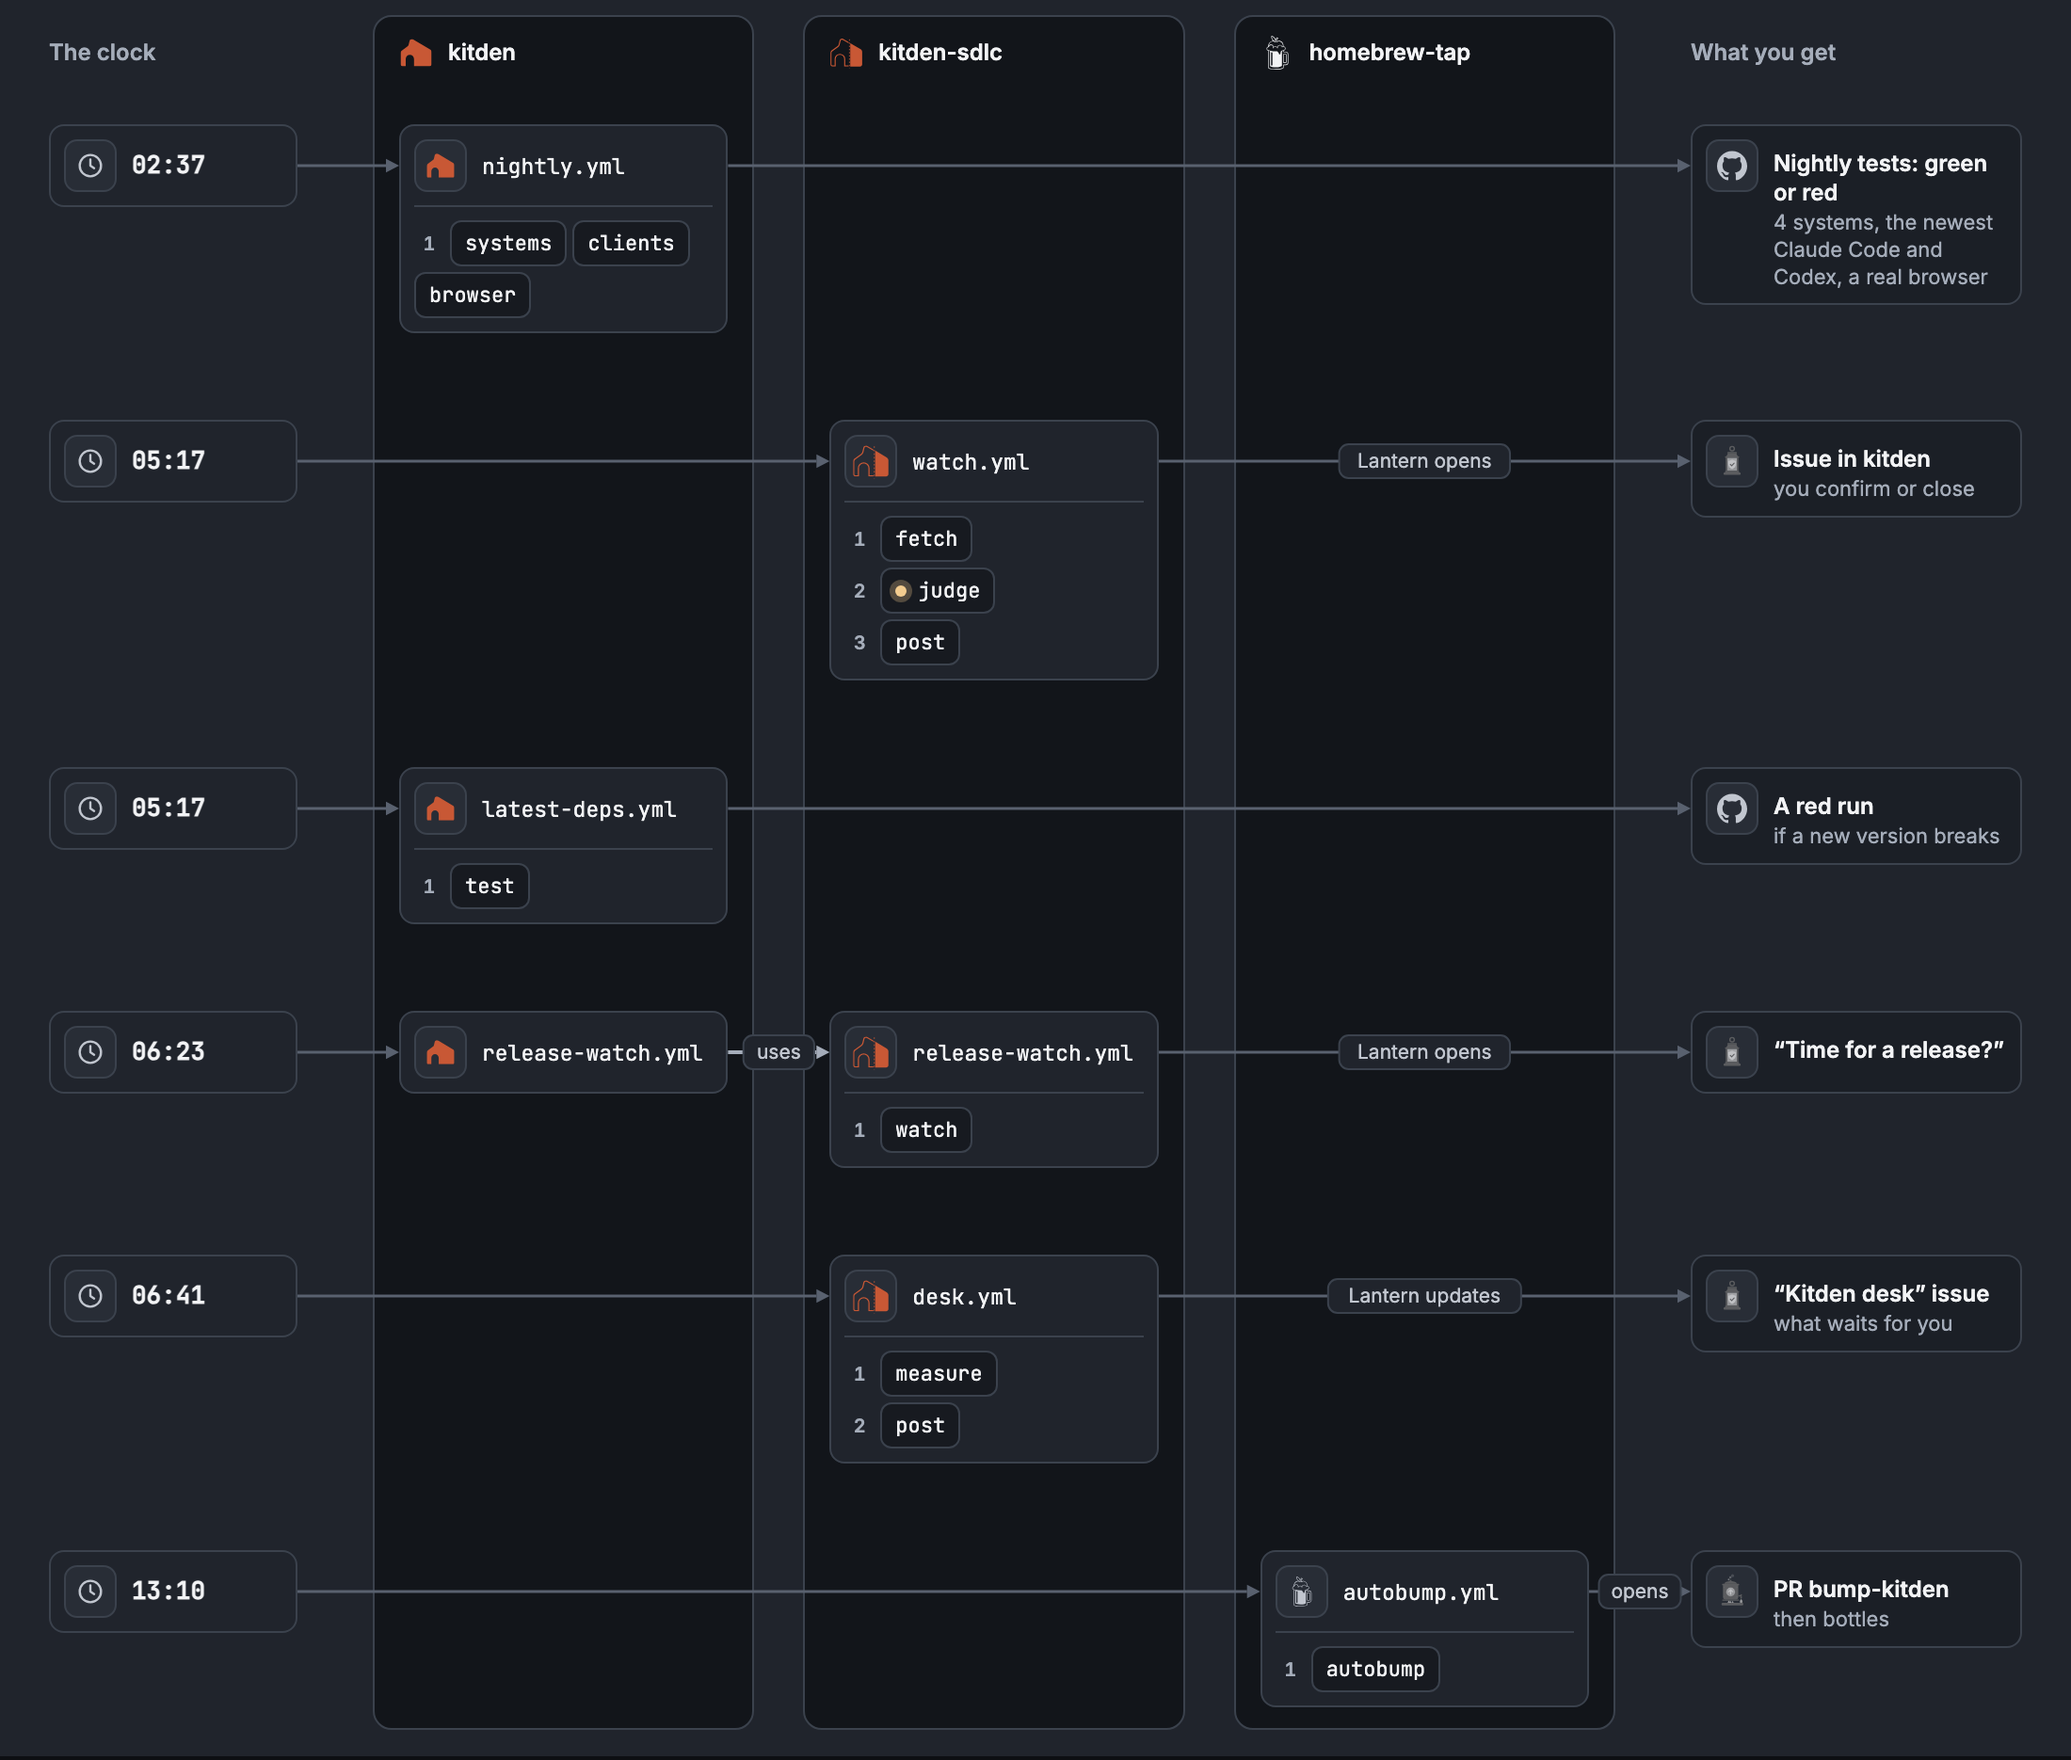
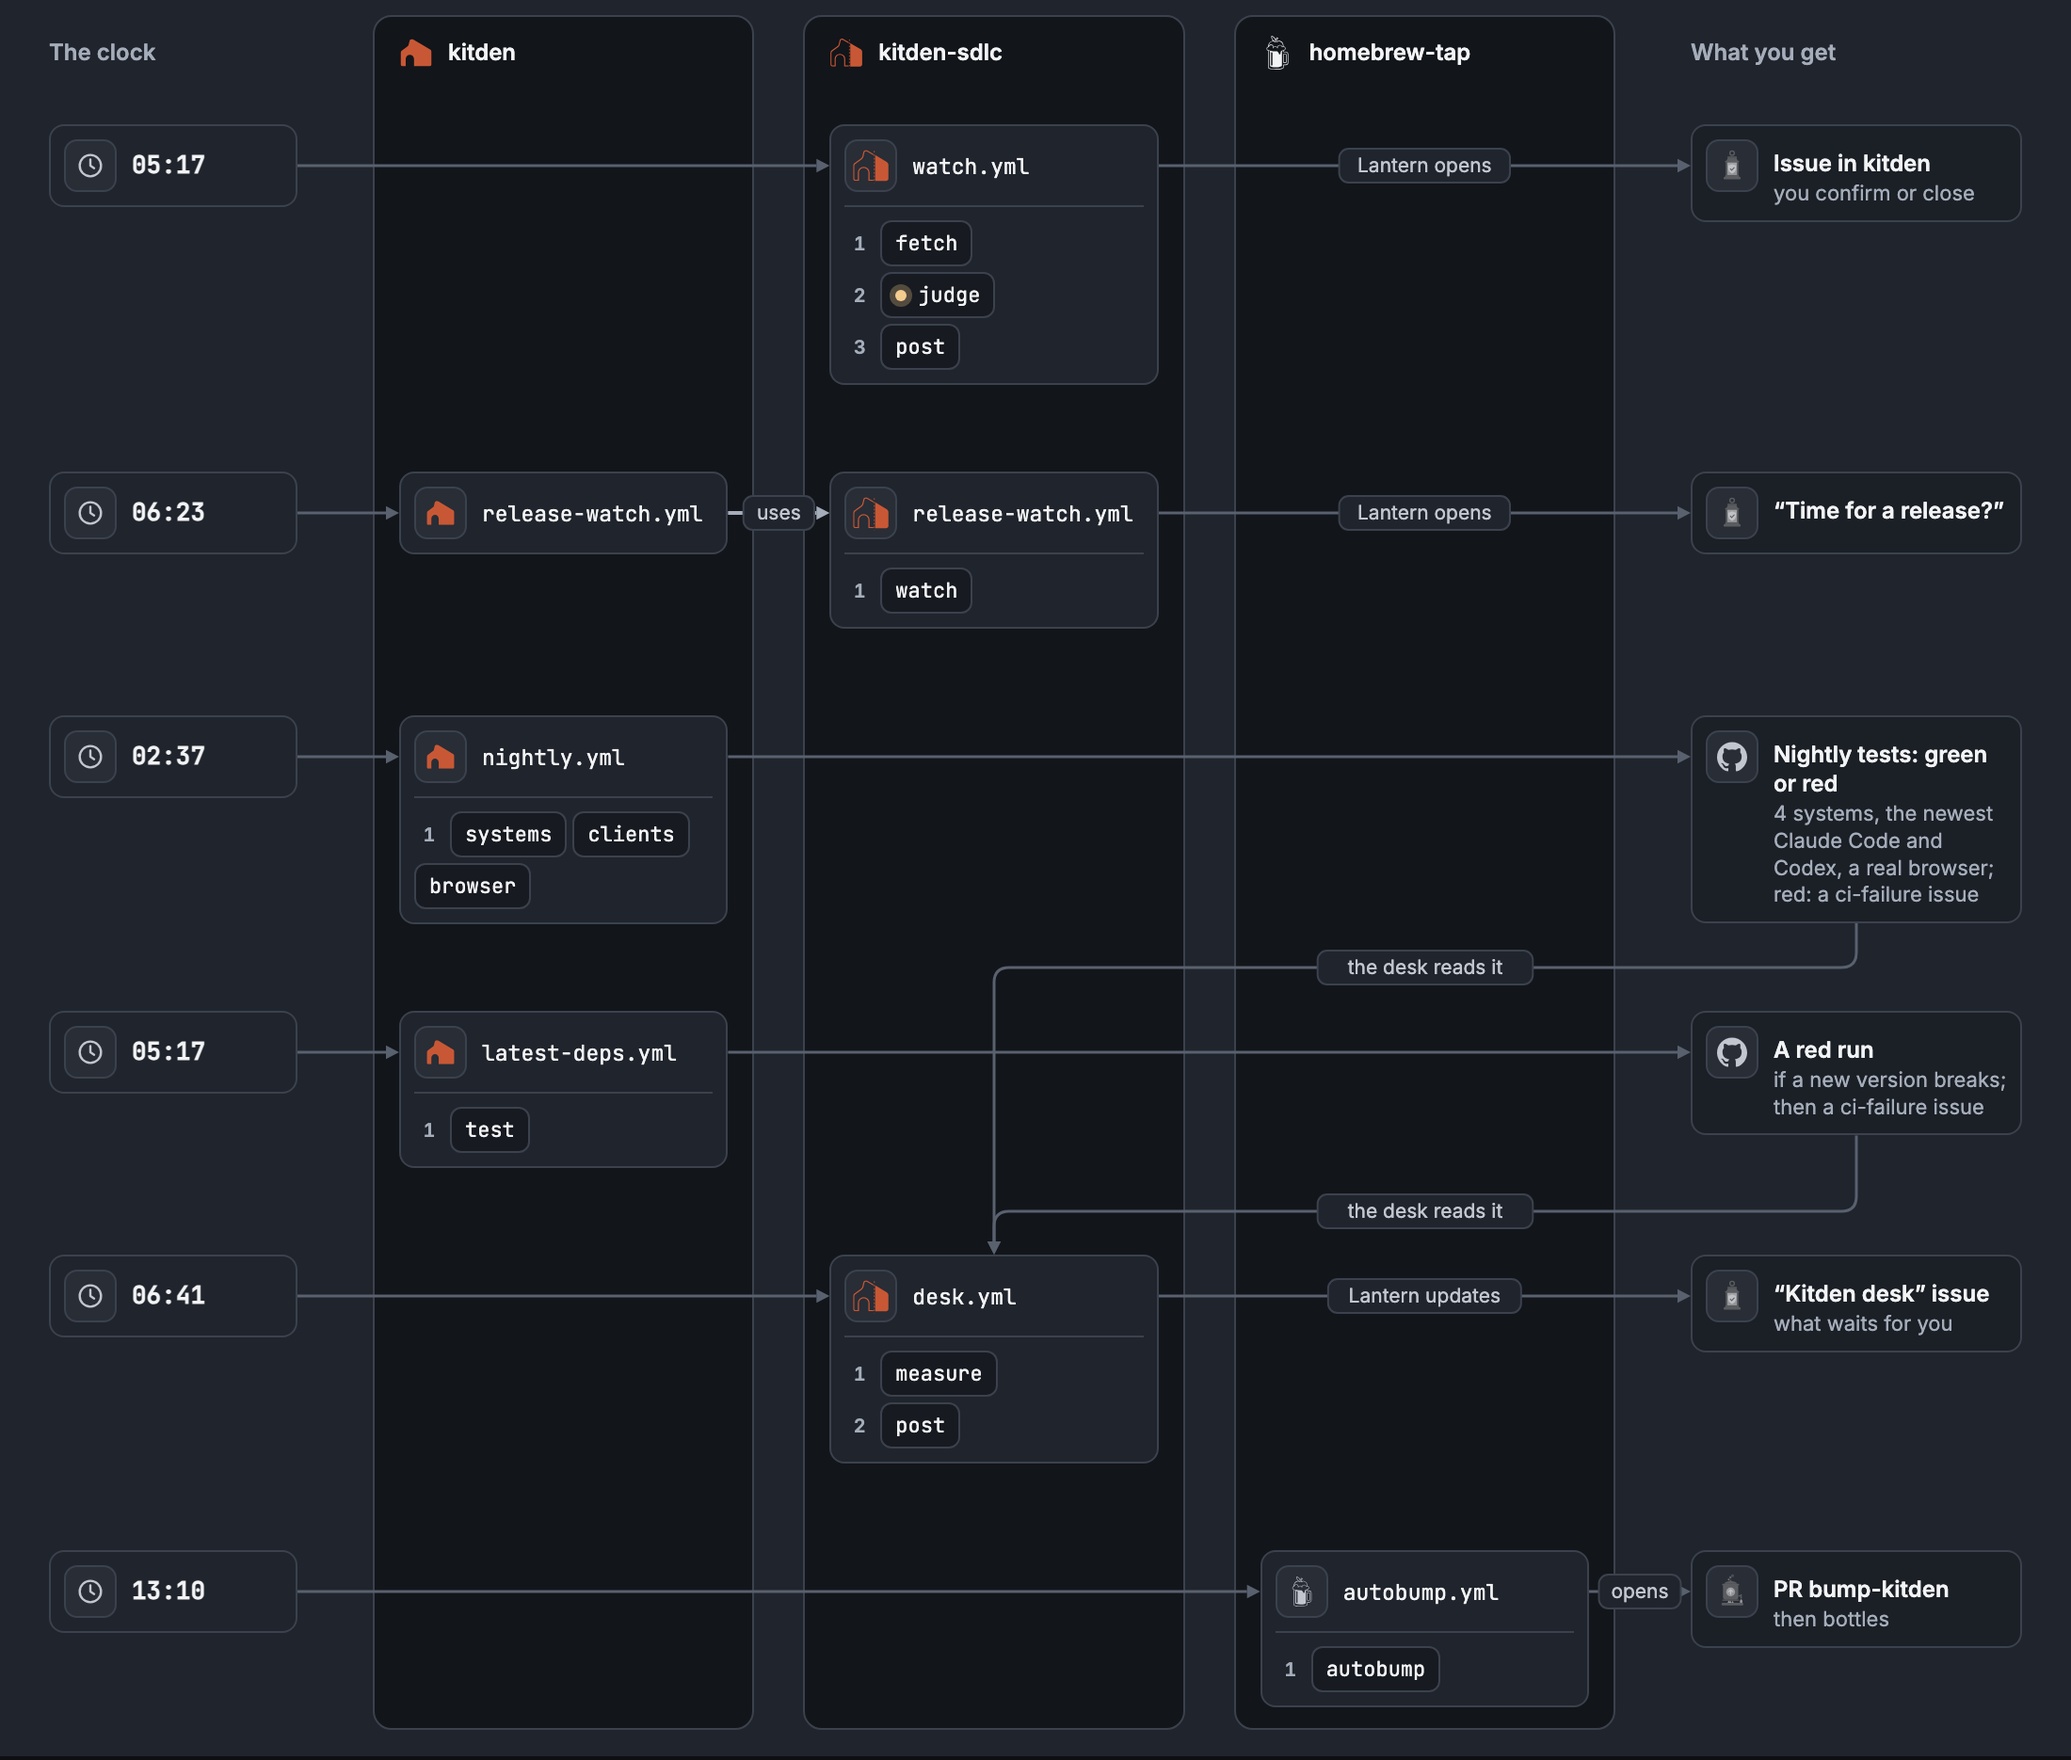
Show on the map that the desk reads the nightly runs

diff --git a/docs/map/index.html b/docs/map/index.html
@@ -440,11 +440,11 @@ const WF = [
   jobs:[{n:'watch', tags:['calls kitden-sdlc'], when:'`AGENTS_ENABLED` on', steps:['Call `release-watch.yml`']}]},
  {id:'k-latest-deps', r:'k', file:'latest-deps.yml', kind:'own',
   trigger:'Every day, 05:17 UTC',
-  stages:[['test']],
+  readBy:['s-desk'], stages:[['test']],
   jobs:[{n:'test', tags:['macOS'], when:'always', steps:['`uv sync --upgrade`','`pytest`']}]},
  {id:'k-nightly', r:'k', file:'nightly.yml', kind:'own',
   trigger:'Every night, 02:37 UTC',
-  stages:[['systems','clients','browser']],
+  readBy:['s-desk'], stages:[['systems','clients','browser']],
   jobs:[
    {n:'systems', tags:['macOS ARM + Intel','Ubuntu x64 + ARM','Python 3.13 + 3.14','no secret'], when:'always: 8 runs, one per system and Python',
     steps:['Install, on the Python of this run','Tests: `pytest`','The real keyring (Ubuntu)','The real Keychain (macOS)','Page tests in Node','Start-up within its time budgets: twice the budgets on the Intel Mac','Tests set aside: never red']},
@@ -525,10 +525,10 @@ const WF = [
   ]},
  {id:'s-desk', r:'s', file:'desk.yml', kind:'own',
   trigger:'Every day, 06:41 UTC',
-  stages:[['measure'],['post']],
+  reads:['k-nightly','k-latest-deps'], stages:[['measure'],['post']],
   jobs:[
-   {n:'measure', tags:['no model'], when:'always', steps:['Gather the facts','Commit the numbers']},
-   {n:'post', tags:['no model','Lantern'], when:'`AGENTS_ENABLED` on', steps:['Update the “Kitden desk” issue']}
+   {n:'measure', tags:['no model'], when:'always', steps:['Gather the facts, the nightly runs and the workflow map among them','Commit the numbers']},
+   {n:'post', tags:['no model','Lantern'], when:'`AGENTS_ENABLED` on', steps:['Update the “Kitden desk” issue','A `ci-failure` issue for each red nightly part, closed when it is green']}
   ]},
  {id:'s-checks', r:'s', file:'checks.yml', kind:'own',
   trigger:'Any push or pull request',
@@ -646,15 +646,16 @@ const STORIES = {
       ['bump','t-tests','starts','z'],['t-tests','t-auto-pull','tests pass','z'],['t-auto-pull','t-publish','starts','z'],['t-publish','brew','','h']]},
   day:{note:'Times are UTC. Nothing here needs you until an issue, a pull request or a red run shows up.',
     rows:[
-      [{id:'c0', kind:'clock', t:'02:37'}, {wf:'k-nightly'}, {id:'d0', kind:'thing', ic:'github', t:'Nightly tests: green or red', sub:'4 systems, the newest Claude Code and Codex, a real browser'}],
       [{id:'c1', kind:'clock', t:'05:17'}, {wf:'s-watch', stages:[['fetch'],['judge'],['post']]}, {id:'d1', kind:'thing', ic:'lantern', t:'Issue in kitden', sub:'you confirm or close'}],
-      [{id:'c2', kind:'clock', t:'05:17'}, {wf:'k-latest-deps'}, {id:'d2', kind:'thing', ic:'github', t:'A red run', sub:'if a new version breaks'}],
       [{id:'c3', kind:'clock', t:'06:23'}, {wf:'k-release-watch'}, {wf:'s-release-watch'}, {id:'d3', kind:'thing', ic:'lantern', t:'“Time for a release?”', go:'rel'}],
+      [{id:'c0', kind:'clock', t:'02:37'}, {wf:'k-nightly'}, {id:'d0', kind:'thing', ic:'github', t:'Nightly tests: green or red', sub:'4 systems, the newest Claude Code and Codex, a real browser; red: a ci-failure issue'}],
+      [{id:'c2', kind:'clock', t:'05:17'}, {wf:'k-latest-deps'}, {id:'d2', kind:'thing', ic:'github', t:'A red run', sub:'if a new version breaks; then a ci-failure issue'}],
       [{id:'c4', kind:'clock', t:'06:41'}, {wf:'s-desk'}, {id:'d4', kind:'thing', ic:'lantern', t:'“Kitden desk” issue', sub:'what waits for you'}],
       [{id:'c5', kind:'clock', t:'13:10'}, {wf:'t-autobump'}, {id:'d5', kind:'thing', ic:'kettle', t:'PR bump-kitden', sub:'then bottles', go:'rel'}]
     ],
     edges:[['c0','k-nightly','','h'],['k-nightly','d0','','h'],['c1','s-watch','','h'],['s-watch','d1','Lantern opens','h'],['c2','k-latest-deps','','h'],['k-latest-deps','d2','','h'],
       ['c3','k-release-watch','','h'],['k-release-watch','s-release-watch','uses','h'],['s-release-watch','d3','Lantern opens','h'],
+      ['d0','s-desk','the desk reads it','z'],['d2','s-desk','the desk reads it','z'],
       ['c4','s-desk','','h'],['s-desk','d4','Lantern updates','h'],['c5','t-autobump','','h'],['t-autobump','d5','opens','h']]}
 };
 const flow = $('flow');

diff --git a/tests/test_map_text.py b/tests/test_map_text.py
@@ -168,14 +168,14 @@ def test_what_keeps_its_second_paragraph_and_why_stops_at_a_tool_directive():
         "a zizmor, actionlint.")
 
 
-# Task 16: the nightly run on the map. The desk does not read the nightly runs yet (S1 is not
-# built), so the map shows no `reads` link today; the tests below say so.
+# Task 16, finished in task 17: the nightly run on the map, and the desk that reads it.
 
-def test_the_nightly_run_is_on_the_map_with_its_jobs_and_no_link_yet():
+def test_the_nightly_run_is_on_the_map_with_its_jobs_and_links():
     assert map_ids(HTML)["k-nightly"] == ("k", "nightly.yml")
     assert map_jobs(HTML)["k-nightly"] == ["systems", "clients", "browser"]
     links = map_links(HTML)
-    assert links["k-nightly"] == {} and "reads" not in links["s-desk"]
+    assert links["s-desk"]["reads"] == ["k-nightly", "k-latest-deps"]
+    assert links["k-nightly"]["readBy"] == links["k-latest-deps"]["readBy"] == ["s-desk"]
     assert links["s-review"] == {"calledBy": ["k-agents-review"]}
     assert "All 22 workflows" in HTML
 
@@ -192,9 +192,7 @@ def test_every_link_names_a_workflow_on_the_map_and_has_its_other_end():
 
 
 def test_a_reads_link_is_read_and_the_page_shows_it():
-    page = HTML.replace("{id:'s-desk', r:'s', file:'desk.yml', kind:'own',",
-                        "{id:'s-desk', r:'s', file:'desk.yml', kind:'own', reads:['k-nightly'],")
-    assert map_links(page)["s-desk"] == {"reads": ["k-nightly"]}
+    assert map_links(HTML)["s-desk"] == {"reads": ["k-nightly", "k-latest-deps"]}
     for kind, label in (("reads", "Reads"), ("readBy", "Read by")):
         shown = (f"(w.{kind} ? '<div class=\"fact\"><span class=\"cap\">{label}</span>"
                  f"<span>' + w.{kind}.map(ref)")
@@ -207,13 +205,23 @@ def test_a_link_to_a_workflow_opens_it_because_the_start_keeps_the_hash():
     assert "setHash('')" not in HTML
 
 
-def test_the_every_day_story_draws_the_nightly_run():
+def test_the_every_day_story_draws_the_nightly_run_and_who_reads_it():
     day = HTML.split("day:{")[1].split("\n};")[0]
     assert "{id:'c0', kind:'clock', t:'02:37'}, {wf:'k-nightly'}" in day
     assert "t:'Nightly tests: green or red'" in day and "a real browser" in day
-    assert "emails" not in day
+    assert "red: a ci-failure issue" in day and "emails" not in day
     assert "['c0','k-nightly','','h'],['k-nightly','d0','','h']" in day
-    assert "the desk reads it" not in day
+    assert day.count("'s-desk','the desk reads it'") == 2
+    assert "['d0','s-desk','the desk reads it','z']" in day
+    assert "['d2','s-desk','the desk reads it','z']" in day
+
+
+def test_the_nightly_and_latest_deps_rows_sit_right_above_the_desk():
+    """So that the edges into the desk run down into it (shape z) and cross no card."""
+    rows = HTML.split("day:{")[1].split("rows:[")[1].split("\n    ],")[0].splitlines()
+    firsts = [re.search(r"\{wf:'([\w-]+)'", row).group(1) for row in rows if "wf:" in row]
+    at = firsts.index("s-desk")
+    assert firsts[at - 2:at + 1] == ["k-nightly", "k-latest-deps", "s-desk"]
 
 
 def test_every_step_in_the_workflows_view_shows_its_number_never_an_icon():

diff --git a/README.md b/README.md
@@ -47,7 +47,7 @@ next thing starts; a dot on a job means a model runs in it.
 
 <picture>
   <source media="(prefers-color-scheme: dark)" srcset="docs/images/map-every-day-dark.png">
-  <img src="docs/images/map-every-day-light.png" width="820" alt="By the clock, in UTC. 02:37: nightly.yml in Kitden runs the tests on four systems and two Pythons, against the newest Claude Code and Codex, and in a real browser. 05:17: watch.yml reads what Claude Code, Codex and Cursor changed, and Lantern opens an issue in Kitden. 05:17: latest-deps.yml tests Kitden on the newest dependencies. 06:23: release-watch.yml in Kitden uses release-watch.yml in kitden-sdlc, and Lantern opens Time for a release. 06:41: desk.yml updates the Kitden desk issue. 13:10: autobump.yml in the tap opens a pull request for a new version.">
+  <img src="docs/images/map-every-day-light.png" width="820" alt="By the clock, in UTC. 02:37: nightly.yml in Kitden runs the tests on four systems and two Pythons, against the newest Claude Code and Codex, and in a real browser. 05:17: watch.yml reads what Claude Code, Codex and Cursor changed, and Lantern opens an issue in Kitden. 05:17: latest-deps.yml tests Kitden on the newest dependencies. 06:23: release-watch.yml in Kitden uses release-watch.yml in kitden-sdlc, and Lantern opens Time for a release. 06:41: desk.yml reads the results of nightly.yml and latest-deps.yml, opens a ci-failure issue for each red part, and updates the Kitden desk issue. 13:10: autobump.yml in the tap opens a pull request for a new version.">
 </picture>
 
 ## The bots
